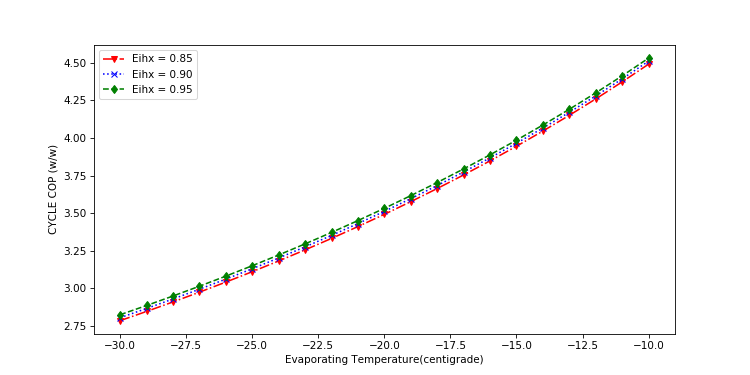
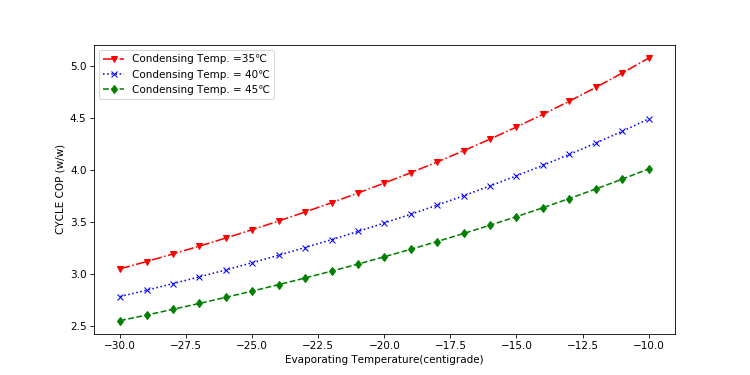
add script

diff --git a/chapter_01/ch1_sys.py b/chapter_01/ch1_sys.py
@@ -1,0 +1,75 @@
+import CoolProp.CoolProp as CP
+from RefCycle import refCycle
+from Compressor import compressor
+import numpy as np
+import scipy.linalg as alg
+import matplotlib.pyplot as plt
+from matplotlib import cm
+from mpl_toolkits.mplot3d import Axes3D
+
+def suctionTemp(Tk,Te,Tsub,eihx):
+    return eihx*(Tk-Tsub-Te)+Te
+
+# Data input
+model = "VTH1113YA"
+N = 1800 # rpm
+cmp1 = compressor(model)
+ref = "R600a"
+subcoolDegree = 1.5
+condTemp = np.linspace(35,45,3)
+evapTemp = np.linspace(-30,-10,21)
+Eihx = 0.85
+q = np.zeros(3*21).reshape(3,21)
+Pel = np.zeros(3*21).reshape(3,21)
+COP_sys = np.zeros(3*21).reshape(3,21)
+MassFlow = np.zeros(3*21).reshape(3,21)
+for i in range(len(condTemp)):
+    for j in range(len(evapTemp)):
+        Tsuct = suctionTemp(condTemp[i],evapTemp[j],subcoolDegree,Eihx)
+        rf = refCycle(ref,Tsuct,evapTemp[j],condTemp[i],condTemp[i]-subcoolDegree)
+        q[i,j] =cmp1.mf(N,evapTemp[j],condTemp[i],Tsuct)*rf.qe()
+        Pel[i,j] = cmp1.mf(N,evapTemp[j],condTemp[i],Tsuct)*rf.wc()/cmp1.isoEff(evapTemp[j],condTemp[i],N)
+        COP_sys[i,j] = rf.cycleCOP()*cmp1.isoEff(evapTemp[j],condTemp[i],N)
+        MassFlow[i,j]= cmp1.mf(N,evapTemp[j],condTemp[i],Tsuct)
+
+plt.figure(figsize=(10, 5))
+plt.plot(evapTemp, q[0,:],label = "Condensing Temp. =35℃",linestyle='dashdot',marker = "v",color ="red")
+plt.plot(evapTemp, q[1,:],label = "Condensing Temp. = 40℃",linestyle=':',marker = "x",color ="blue")
+plt.plot(evapTemp, q[-1,:],label = "Condensing Temp. = 45℃",linestyle='--',marker = "d",color ="green")
+plt.xlabel("Evaporating Temperature(centigrade)")
+plt.ylabel('capacity (W)')
+plt.legend()
+plt.savefig('capacity.png',dpi=75)
+plt.show()
+
+plt.figure(figsize=(10, 5))
+plt.plot(evapTemp, Pel[0,:],label = "Condensing Temp. =35℃",linestyle='dashdot',marker = "v",color ="red")
+plt.plot(evapTemp, Pel[1,:],label = "Condensing Temp. = 40℃",linestyle=':',marker = "x",color ="blue")
+plt.plot(evapTemp, Pel[-1,:],label = "Condensing Temp. = 45℃",linestyle='--',marker = "d",color ="green")
+plt.xlabel("Evaporating Temperature(centigrade)")
+plt.ylabel('Input Power(W)')
+
+plt.legend()
+plt.savefig('Pel.png',dpi=75)
+plt.show()
+
+plt.figure(figsize=(10, 5))
+plt.plot(evapTemp, COP_sys[0,:],label = "Condensing Temp. =35℃",linestyle='dashdot',marker = "v",color ="red")
+plt.plot(evapTemp, COP_sys[1,:],label = "Condensing Temp. = 40℃",linestyle=':',marker = "x",color ="blue")
+plt.plot(evapTemp, COP_sys[-1,:],label = "Condensing Temp. = 45℃",linestyle='--',marker = "d",color ="green")
+plt.xlabel("Evaporating Temperature(centigrade)")
+plt.ylabel('System COP (w/w)')
+
+plt.legend()
+plt.savefig('system_COP.png',dpi=75)
+plt.show()
+
+plt.figure(figsize=(10, 5))
+plt.plot(evapTemp, MassFlow[0,:],label = "Condensing Temp. =35℃",linestyle='dashdot',marker = "v",color ="red")
+plt.plot(evapTemp, MassFlow[1,:],label = "Condensing Temp. = 40℃",linestyle=':',marker = "x",color ="blue")
+plt.plot(evapTemp, MassFlow[-1,:],label = "Condensing Temp. = 45℃",linestyle='--',marker = "d",color ="green")
+plt.xlabel("Evaporating Temperature(centigrade)")
+plt.ylabel('Refrigerant mass flow rate (kg/s)')
+plt.legend()
+plt.savefig('MassFlow',dpi=75)
+plt.show()

diff --git a/chapter_01/ch1_ihx.py b/chapter_01/ch1_ihx.py
@@ -58,5 +58,5 @@ plt.xlabel("Evaporating Temperature(centigrade)")
 plt.ylabel('CYCLE COP (w/w)')
 
 plt.legend()
-plt.savefig('CYCLE_COP.png',dpi=75)
+plt.savefig('CYCLE_COP_ihx.png',dpi=75)
 plt.show()

diff --git a/chapter_01/chapter1.md b/chapter_01/chapter1.md
@@ -105,10 +105,11 @@ $$ \epsilon_{ihx}= \frac{T_1-T_5}{T_{4'}-T_3} $$
 >2、定义系统工况
 >3、压缩机选型
 >4、毛细管选型
->5、定灌注量
->6、性能测试
->7、控制逻辑匹配
->8、系统优化迭代<br>
+>5、换热器选型
+>6、定灌注量
+>7、性能测试
+>8、控制逻辑匹配
+>9、系统优化迭代<br>
 
 &emsp;&emsp;由于冰箱制冷系统是一个复杂的非线性小型制冷系统，想要精确仿真其热力和动力性能是非常困难的，做样机和测试工作不可避免，如何根据理论优化设计参数，减少迭代的实验环节，提高匹配效率，是本章的核心主题。
 <center><img src = "matching_flow.png" width = 100% ></center>
@@ -164,6 +165,8 @@ $$ \epsilon_{ihx}= \frac {T_1 - T_5}{T_3-T_{4'}}\centerdot \centerdot \centerdot
 $$ r_t = \frac {Q_{cab}}{Q_{evap}}\centerdot \centerdot \centerdot (9) $$
 制冷系统COP：
 $$ COP_{sys} =COP_{cycle}\centerdot\eta_{is}= \frac{h_1-h_3}{h_{2s}-h_1} \centerdot \eta_{is} \centerdot \centerdot \centerdot(10) $$
+
+#### 3.2.3 工况对制冷系统的影响
 &emsp;&emsp;根据公式（1），压缩机的吸气流量受容积效率$\eta_v$、吸气比容$v_1$（吸气密度$\rho_1=1/v_1$），压缩机转速$N$和扫气容积$V_k$的影响。首先假设吸气温度不变，蒸发温度从-30~-10度变化时，系统的吸气密度的变化如图,从图上可以看出，如果蒸发温度变化范围很大,则吸气流量会迅速增加。
 <center><img src = "Gas_suction_density.png"></center>
 <center>图14 吸气密度随蒸发温度和吸气温度变化曲线 </center>
@@ -200,9 +203,45 @@ $$ \eta_v = a + b （ \frac {P_{cond}}{P_{evap}})^{1/m }+c(\frac{N}{N_{max}})+d(
 <center>图20 某定频压缩机等熵效率曲线</center>
 &emsp;&emsp; 我们常用的ASHRAE工况其循环效率为2.89，而目前最优秀的R600a压缩机，其等熵效率最高到0.7就到天花板了，所以其标况最高效率为2.89×0.7 = 2.02左右，0.7就是人类热机效率的天花板。
 
-&emsp;&emsp;下面我们给出在受到压缩机性能影响下，不同工况条件下冰箱系统的性能变化曲线：压缩机性能按照加西贝拉某款压缩机的108点测试数据拟合出的数据计算，转速1800rpm，冷凝温度、蒸发温度、回热系数、过冷度均同上。
-制冷量
-压缩机输入功
-循环COP
+&emsp;&emsp;下面我们给出在受到压缩机性能影响下，不同工况条件下冰箱系统的性能变化曲线：压缩机性能使用根据加西贝拉${VTH1113YA}$的108点测试数据拟合出的$\eta_v$和$\eta_{is}$公式进行计算，转速1800rpm，冷凝温度、蒸发温度、回热系数、过冷度均同上。
+计算出系统的制冷量变化如下图：
+<center><img src ="capacity.png"></center>
+<center>图21 冰箱系统制冷量随蒸发温度、冷凝温度变化曲线</center>
+压缩机输入功：
+<center><img src ="Pel.png"></center>
+<center>图22 冰箱压缩机输入功随蒸发温度、冷凝温度变化曲线</center>
+系统COP：
+<center><img src ="system_COP.png"></center>
+<center>图23 冰箱系统COP随蒸发温度、冷凝温度变化曲线</center>
+压缩机质量流量：
+<center><img src ="MassFlow.png"></center>
+<center>图24 压缩机吸气流量随蒸发温度、冷凝温度变化曲线</center>
+
+&emsp;&emsp;由于系统工况不仅决定了制冷循环的效率，还影响了压缩机本身的效率，想要得到优化的制冷系统性能同时有效控制系统成本，就必须重视系统工况。在进行新品设计时，要想得到较低的耗电量数据，光靠控制发泡层厚度降低漏热量是远远不够的，必须同时保证系统工况得到充分优化，即：
+>1 较低的冷凝温度
+>2 较高的蒸发温度
+>3 较高的回热系数
+>4 合适的过冷度和灌注量<br>
+### 3.3 压缩机选型
+&emsp;&emsp;根据上一节的内容，要想达成目标性能，则必须根据热负荷、系统预定义工况和压缩机性能曲线来选择压缩机。
+高温工况(Max state）：下标：$ms$为最大热负荷工况，$ss$为稳态工况
+
+$$ Q_{e_{ms}}>Q_{cab_{ms}}$$
+$$ Q_{e_{ms}} =\dot{m}_{ref_{ms}}(h_{1}-h_3)_{ms} $$
+$$ \dot{m}_{ref_{ms}}=\frac{\eta_{v_{ms}}V_kN_{max}}{v_{1_{ms}}}$$
+稳态工况（Steady state）：
+$$ Q_{e_{ss}}>Q_{cab_{ss}}$$
+$$ Q_{e_{ss}} =\dot{m}_{ref_{ss}}(h_{1}-h_3)_{ss} $$
+$$ COP_{sys_{ss}}> \frac{Q_{cab_{ss}}}{Ec_{limit}-Ec_{other}} $$
+
+在高温工况下，计算出的最大系统制冷量应高于箱体理论热负荷。
+在稳态工况下，计算出的系统稳态制冷量应大于箱体的稳态热负荷，同时COP应高于预期设计COP。
+
+### 3.4 毛细管-回气管设计和选型
+&emsp;&emsp;毛细管本身不具备大幅优化稳态系统工况的能力，调节毛细管的流量参数会导致冷凝侧的过冷度发生变化，造成系统的制冷剂灌注量需要重新匹配。
+
+
+
+
 
 
